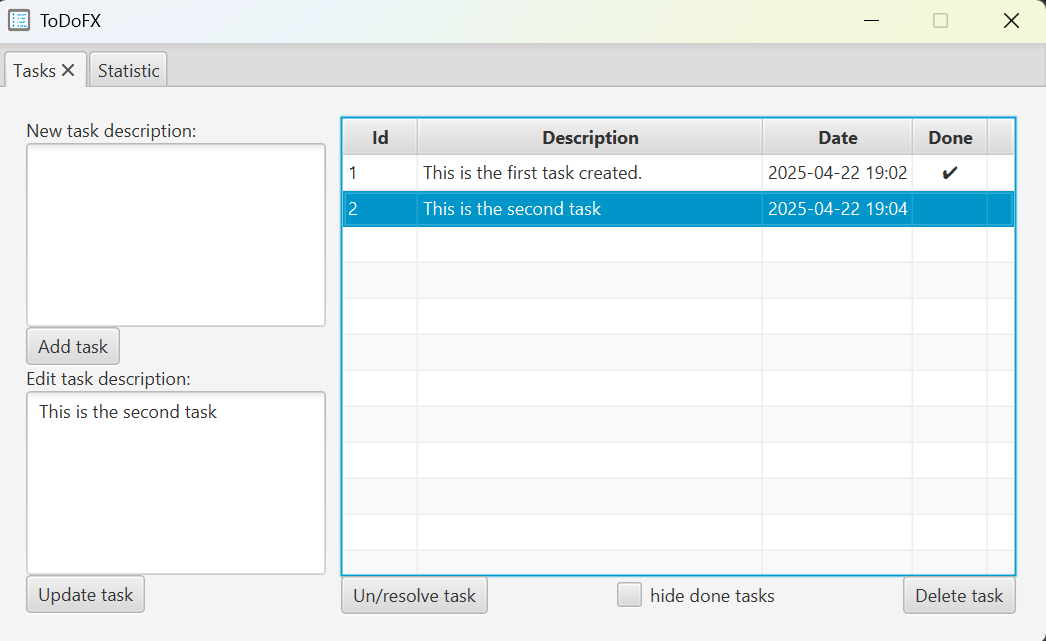
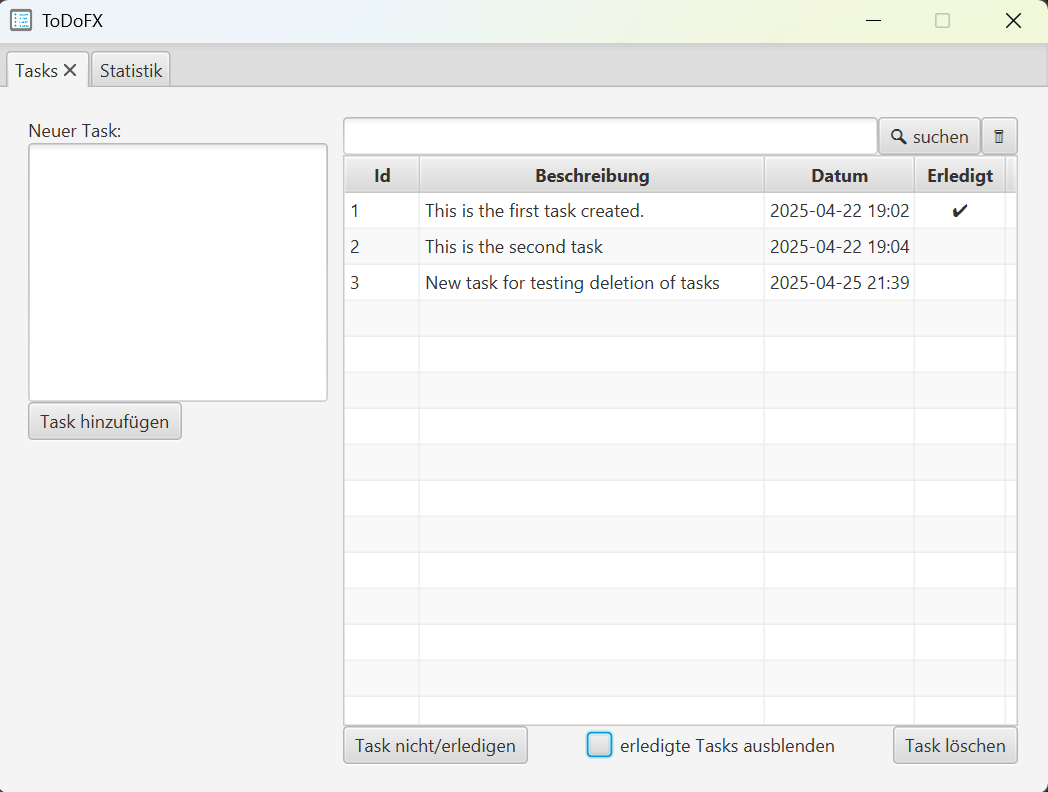
#15 tasks are now loaded according to settings

diff --git a/src/main/kotlin/com/github/ursteiner/todofx/controller/ToDoFxController.kt b/src/main/kotlin/com/github/ursteiner/todofx/controller/ToDoFxController.kt
@@ -46,6 +46,12 @@ class ToDoFxController : Initializable {
     private lateinit var deleteTaskButton: Button
 
     @FXML
+    private lateinit var searchButton: Button
+
+    @FXML
+    private lateinit var searchTextField: TextField
+
+    @FXML
     private lateinit var idColumn: TableColumn<String, String>
 
     @FXML
@@ -98,6 +104,7 @@ class ToDoFxController : Initializable {
         resolveTaskButton.text = getTranslation(TranslationKeys.RESOLVE_TASK)
         deleteTaskButton.text = getTranslation(TranslationKeys.DELETE_TASK)
         updateTaskButton.text = getTranslation(TranslationKeys.UPDATE_TASK)
+        searchButton.text = getTranslation(TranslationKeys.SEARCH)
 
         idColumn.text = getTranslation(TranslationKeys.ID)
         descriptionColumn.text = getTranslation(TranslationKeys.DESCRIPTION)
@@ -120,6 +127,32 @@ class ToDoFxController : Initializable {
         databaseService.addTask(newTask)
         getTasksBasedOnFilters()
         taskNameInput.text = ""
+    }
+
+    @FXML
+    private fun onSearchButtonClick(){
+        if(searchTextField.text.isEmpty()){
+            FxMessageDialog.createMessageDialog(getTranslation(TranslationKeys.MISSING_SEARCH_TERM),
+                getTranslation(TranslationKeys.PLEASE_FILL_IN_SEARCH_TERM))
+            return
+        }
+
+        tasks.clear()
+        tasks.addAll(databaseService.getSearchedTasks(("%${searchTextField.text}%".lowercase())))
+
+        tasks.filter { it.getIsDoneProperty() }
+            .map { it.setIsDoneIconProperty(isDoneTextIcon) }
+
+        tableView.items = FXCollections.observableList(tasks)
+        tableView.refresh()
+    }
+
+    @FXML
+    private fun onClearSearchButton(){
+        if(searchTextField.text.isNotEmpty()) {
+            searchTextField.text = ""
+            getTasksBasedOnFilters()
+        }
     }
 
     @FXML

diff --git a/src/main/kotlin/com/github/ursteiner/todofx/service/DatabaseServiceImpl.kt b/src/main/kotlin/com/github/ursteiner/todofx/service/DatabaseServiceImpl.kt
@@ -3,6 +3,7 @@ package com.github.ursteiner.todofx.service
 import com.github.ursteiner.todofx.model.Task
 import org.jetbrains.exposed.sql.Column
 import org.jetbrains.exposed.sql.Database
+import org.jetbrains.exposed.sql.LowerCase
 import org.jetbrains.exposed.sql.SchemaUtils
 import org.jetbrains.exposed.sql.SqlExpressionBuilder.eq
 import org.jetbrains.exposed.sql.StdOutSqlLogger
@@ -61,6 +62,20 @@ class DatabaseServiceImpl : DatabaseService {
                 null -> Tasks.selectAll()
                 else -> Tasks.selectAll().where { Tasks.isDone eq resolved }
             }
+            databaseTasks.forEach {
+                tasks.add(Task(it[Tasks.name], it[Tasks.date], it[Tasks.id], it[Tasks.isDone]))
+            }
+        }
+        return tasks
+    }
+
+    override fun getSearchedTasks(search: String): MutableList<Task> {
+        val tasks = mutableListOf<Task>()
+
+        transaction {
+            addLogger(StdOutSqlLogger)
+            val databaseTasks = Tasks.selectAll().where { LowerCase(Tasks.name) like search }
+
             databaseTasks.forEach {
                 tasks.add(Task(it[Tasks.name], it[Tasks.date], it[Tasks.id], it[Tasks.isDone]))
             }

diff --git a/src/main/kotlin/com/github/ursteiner/todofx/ToDoFxApplication.kt b/src/main/kotlin/com/github/ursteiner/todofx/ToDoFxApplication.kt
@@ -9,7 +9,7 @@ import javafx.stage.Stage
 class ToDoFxApplication : Application() {
     override fun start(stage: Stage) {
         val fxmlLoader = FXMLLoader(ToDoFxApplication::class.java.getResource("toDoFx-view.fxml"))
-        val scene = Scene(fxmlLoader.load(), 700.0, 400.0)
+        val scene = Scene(fxmlLoader.load(), 700.0, 500.0)
         stage.title = "ToDoFX"
         stage.icons.add(Image(ToDoFxApplication::class.java.getResourceAsStream("appIcon.png")))
         stage.scene = scene

diff --git a/src/main/kotlin/com/github/ursteiner/todofx/service/DatabaseService.kt b/src/main/kotlin/com/github/ursteiner/todofx/service/DatabaseService.kt
@@ -7,6 +7,7 @@ interface DatabaseService {
     fun getResolvedTasks(): MutableList<Task>
     fun getOpenTasks(): MutableList<Task>
     fun getTasks(resolved: Boolean? = null): MutableList<Task>
+    fun getSearchedTasks(search: String): MutableList<Task>
     fun deleteTask(taskId: Int): Int
     fun updateTask(task: Task): Int
     fun getAmountOfResolvedTasks(): Long

diff --git a/src/main/kotlin/com/github/ursteiner/todofx/constants/TranslationKeys.kt b/src/main/kotlin/com/github/ursteiner/todofx/constants/TranslationKeys.kt
@@ -19,5 +19,8 @@ enum class TranslationKeys() {
     DO_YOU_WANT_TO_DELETE_THE_TASK,
     FIRST_FILL_IN_A_DESCRIPTION,
     NEW_TASK_DESCRIPTION,
-    TASK
+    TASK,
+    SEARCH,
+    MISSING_SEARCH_TERM,
+    PLEASE_FILL_IN_SEARCH_TERM
 }
